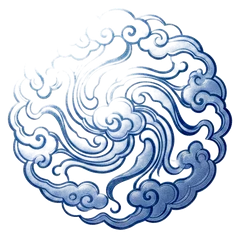
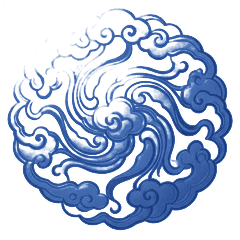
렉시오 구름 문장을 진한 청색으로 또렷하게 (v9.0)
Claude-Session: https://claude.ai/code/session_018kcaK1YQGkv4UBC623yDa1

diff --git a/js/games/lexio.js b/js/games/lexio.js
@@ -11,7 +11,7 @@ const SUIT = {
   sun: { name: '해', color: '#b8222c' },
   moon: { name: '달', color: '#1f3d99' },
   star: { name: '별', color: '#1c7444' },
-  cloud: { name: '구름', color: '#4a6fae' },
+  cloud: { name: '구름', color: '#2a4f9e' },
 };
 const START_CHIPS = 100;
 const handSize = (n) => (n === 4 ? 13 : 12);

diff --git a/js/config.js b/js/config.js
@@ -1,6 +1,6 @@
 // 앱 이름
 export const APP_NAME = 'O게임';
-export const APP_VERSION = 'v8.9';
+export const APP_VERSION = 'v9.0';
 
 // Firebase 설정 — Firebase 콘솔 > 프로젝트 설정 > 내 앱 에서 복사한 값
 // apiKey를 비우면 "테스트 모드"로 동작합니다
